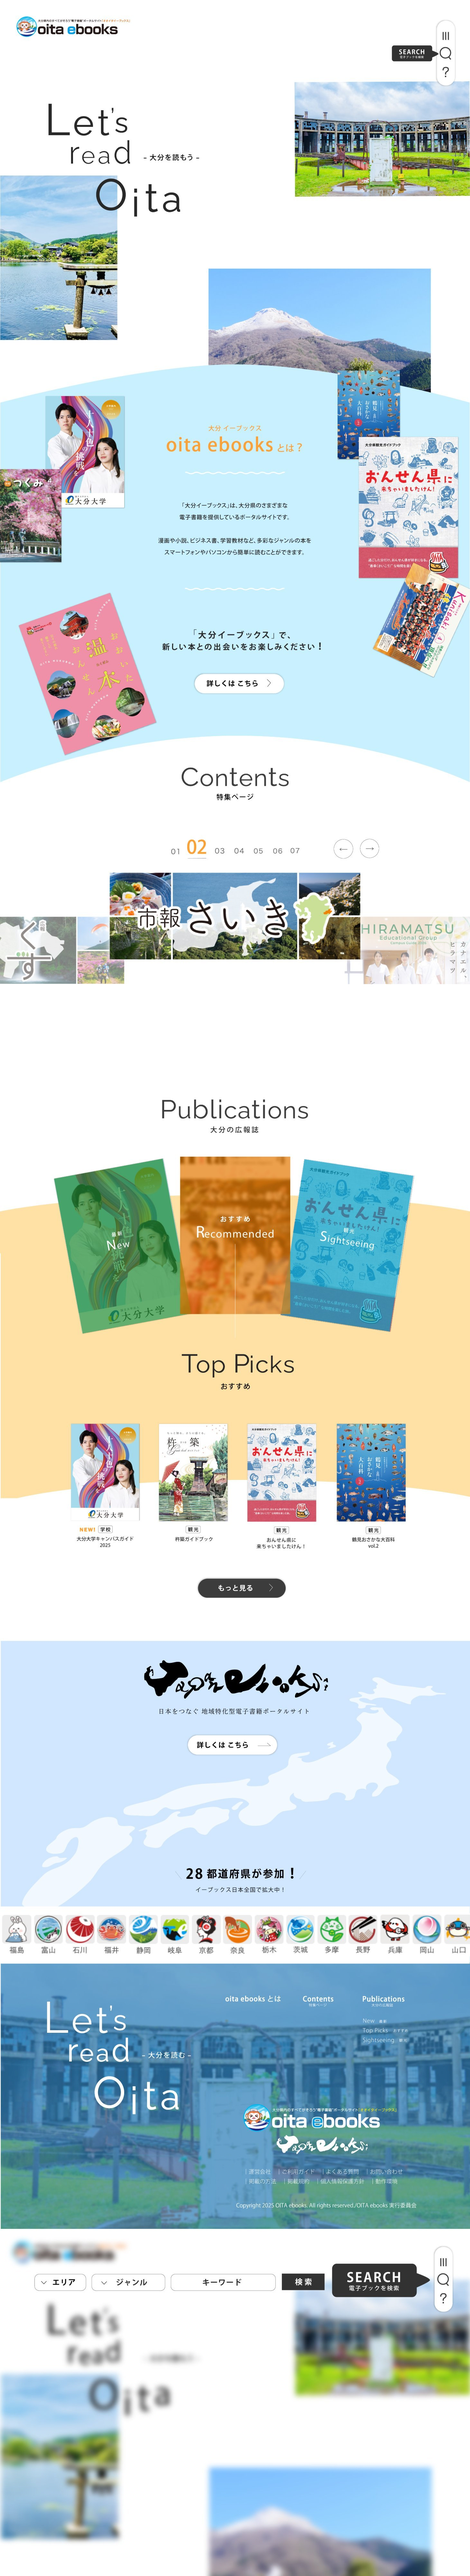
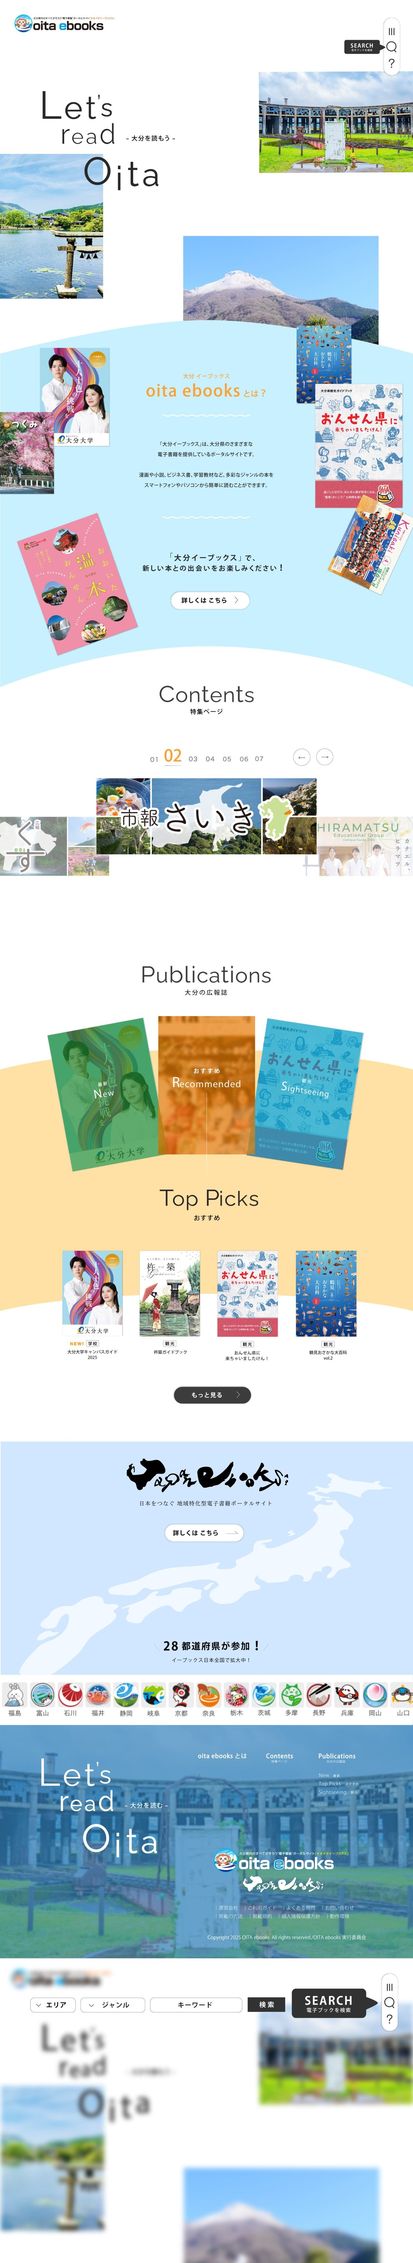
Web Design page: full-page images for wedding invitation and Oita ebooks
Claude-Session: https://claude.ai/code/session_01Jjns76fGtdYVDy7ATvCzK4

diff --git a/work-02.html b/work-02.html
@@ -114,8 +114,8 @@
         <!-- 04:結婚式 Web招待状(STUDIO) -->
         <article class="site" id="piece-4">
           <figure class="piece__fig site__fig" data-reveal>
-            <div class="detail__frame site__frame" data-label="TOP IMAGE 04" data-full="images/works/detail/02-top-4-oneprism.jpg">
-              <img class="site__shot" src="images/works/detail/02-top-4-oneprism.jpg" alt="ONE PRISM SESSION トップページ" data-detail-img>
+            <div class="detail__frame site__frame site__frame--page" data-label="TOP IMAGE 04" data-full="images/works/detail/02-full-4-oneprism.jpg">
+              <img class="site__shot" src="images/works/detail/02-full-4-oneprism.jpg" alt="ONE PRISM SESSION トップページ" data-detail-img>
             </div>
             <figcaption class="detail__cap">(04) One Prism Session</figcaption>
           </figure>
